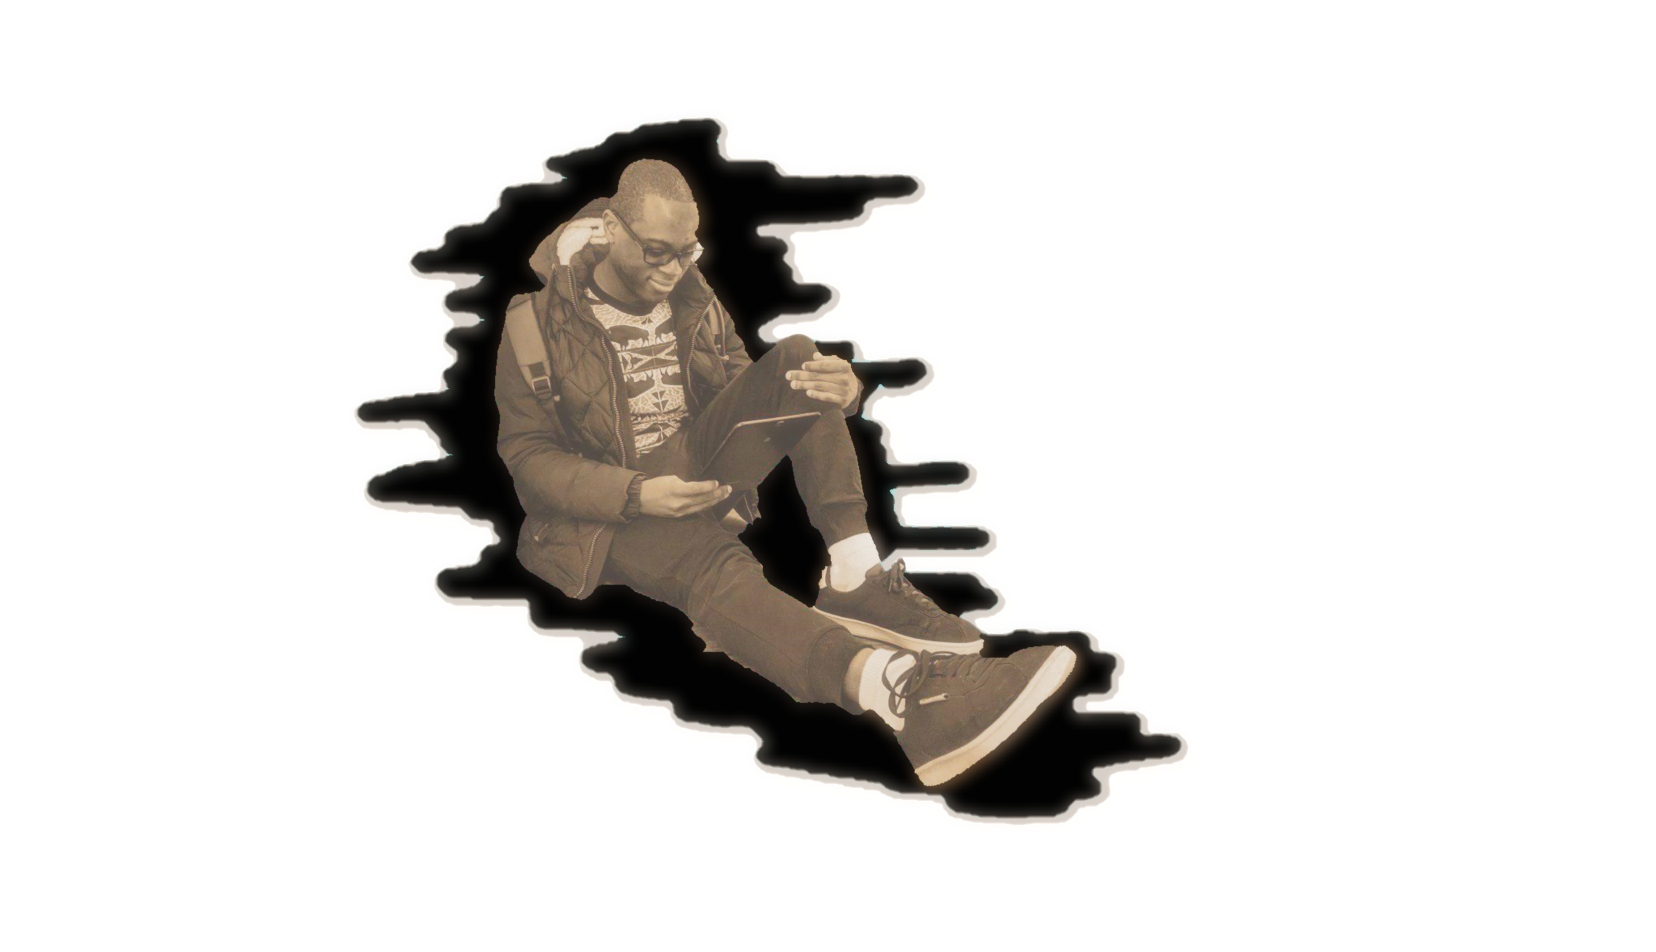
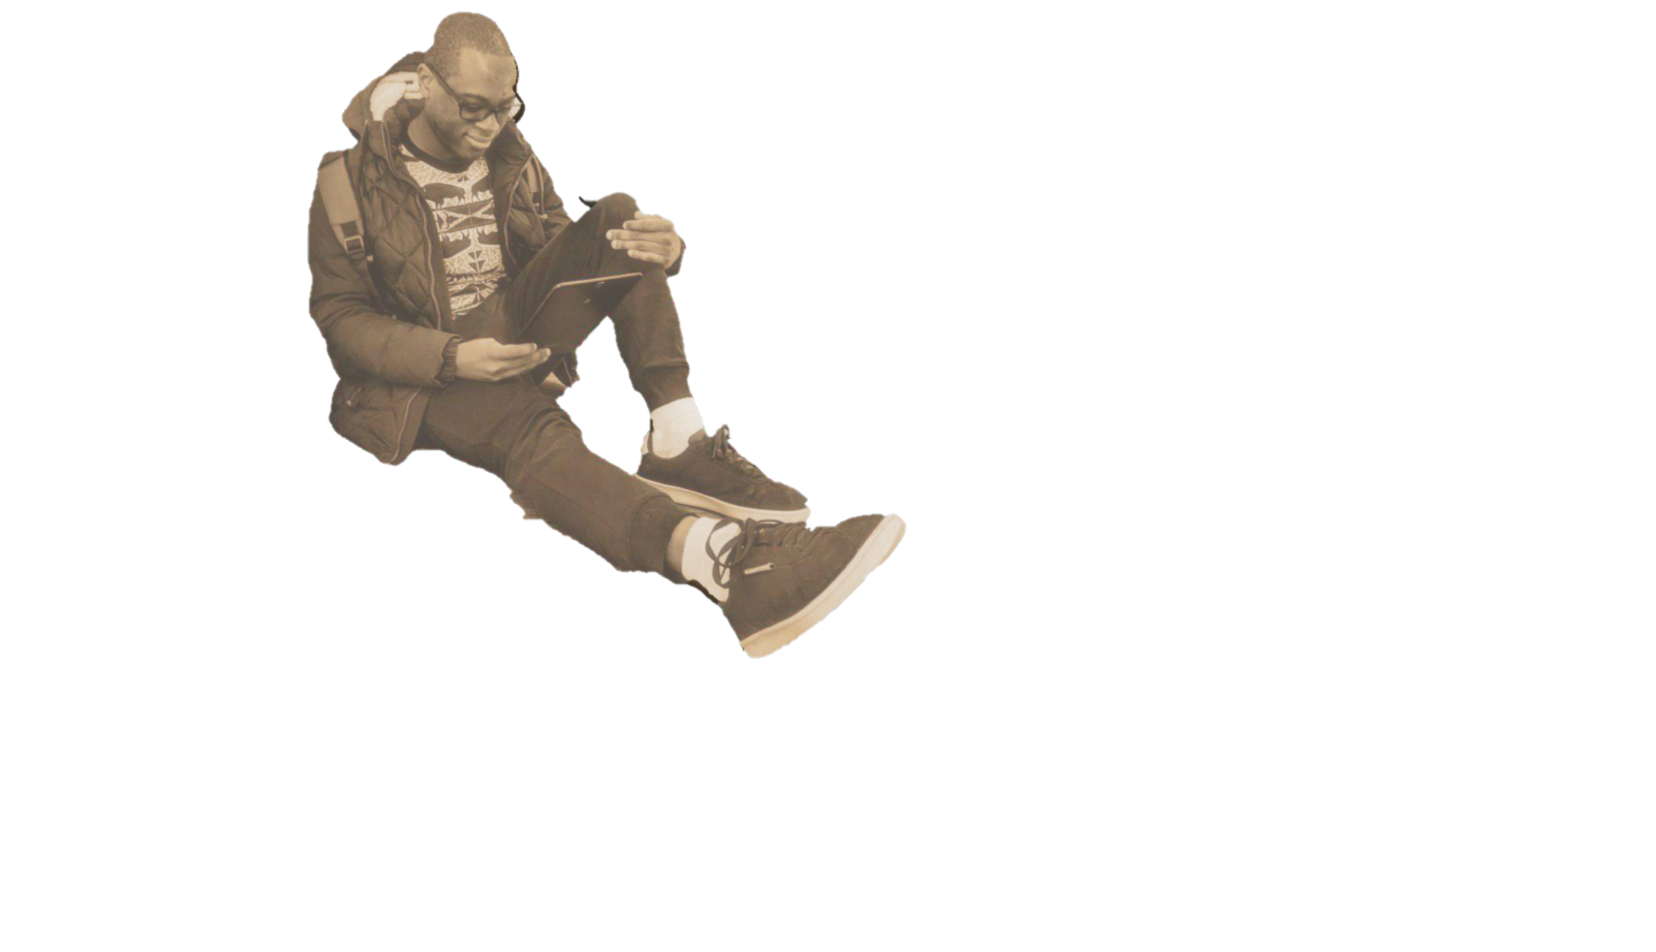
Tinker more with background png to remove surrounding color

Changed region(s): [[0.1848, 0.0, 0.7391, 0.8834]]

diff --git a/src/stylesheets/App.module.css b/src/stylesheets/App.module.css
@@ -4,7 +4,7 @@
   text-align: center;
   height: 100vh;
   font-family: 'Dosis', sans-serif;
-  background-color: rgba(244, 250, 250, 0.5);
+  background-color: rgba(245, 244, 239, 0.493);
   background-image: url('../assets/background3.png');
   /* background: url('http://i.imgur.com/B0gV7Gq.png'); */
   /* background: url('https://wallup.net/wp-content/uploads/2016/05/25/176883-minimalism-geometry-hexagon-simple_background-monochrome-white_background-748x421.png'); */
